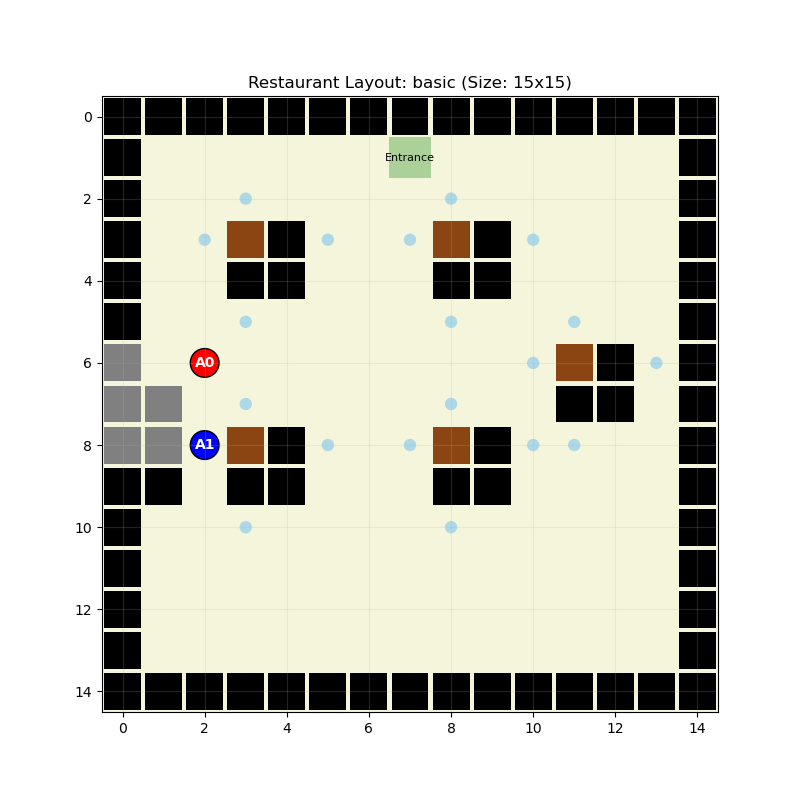
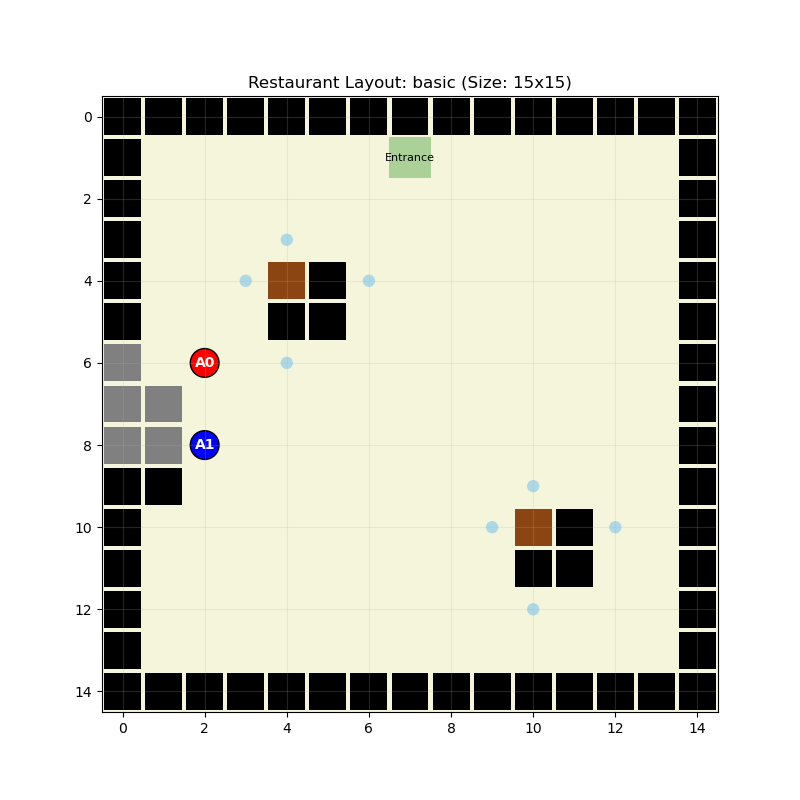
delivery_rewardの値を400.0にし、レイアウト生成機能を再設計。衝突判定に椅子の座標を追加し、関連する画像を更新。

diff --git a/envs/layout.py b/envs/layout.py
@@ -21,11 +21,13 @@ class LayoutBuilder:
             LayoutBuilder._add_table(obstacles, tables, seats, 3, 3, grid_size)
         
         elif layout_type == 'basic':
+            # テーブル数を 2つに削減
             obstacles = LayoutBuilder._add_walls(obstacles, grid_size)
             counter_pos = (7, 1)
             LayoutBuilder._add_counter(obstacles, 7, 1, length=3, horizontal=False)
             
-            for tx, ty in [(3, 3), (3, 8), (8, 3), (8, 8), (6, 11)]:
+            # 対角線上に配置し、広い移動スペースを確保
+            for tx, ty in [(4, 4), (10, 10)]:
                 LayoutBuilder._add_table(obstacles, tables, seats, tx, ty, grid_size)
             entrance_pos = (1, 7)
         
@@ -34,13 +36,24 @@ class LayoutBuilder:
             counter_pos = (7, 1)
             LayoutBuilder._add_counter(obstacles, 7, 1, length=5, horizontal=False)
             
-            for i in range(3):
+            # --- 再設計されたテーブル配置 ---
+            # 四隅に配置し、中央と外周に通路を確保
+            # (x, y) はテーブルの左上座標
+            table_positions = [
+                (2, 2),   # 左上
+                (2, 11),  # 右上
+                (11, 2),  # 左下
+                (11, 11), # 右下
+                (6, 7)    # 中央やや右（アイランド型）
+            ]
+            
+            for tx, ty in table_positions:
+                LayoutBuilder._add_table(obstacles, tables, seats, tx, ty, grid_size)
+            
+            # 追加の装飾的障害物（カウンター付近の仕切り）
+            for i in range(2):
                 obstacles.append((12, 5 + i))
             
-            for tx in [2, 6, 10]:
-                for ty in [2, 6, 10]:
-                    LayoutBuilder._add_table(obstacles, tables, seats, tx, ty, grid_size)
-            LayoutBuilder._add_table(obstacles, tables, seats, 4, 12, grid_size)
             entrance_pos = (1, 7)
         
         return obstacles, tables, seats, counter_pos, entrance_pos

diff --git a/envs/restaurant_env.py b/envs/restaurant_env.py
@@ -201,12 +201,13 @@ class RestaurantEnv(AECEnv):
                              if c.state in ['seated', 'ordered', 'served']]
         other_positions = [pos for a, pos in self.agent_positions.items() if a != agent]
         
-        if check_collision((new_x, new_y), self.obstacles, customer_positions, other_positions):
+        if check_collision((new_x, new_y), self.obstacles, 
+                          customer_positions, other_positions, self.seats):
             self.rewards[agent] = self.reward_params['collision']
             self.collision_count[agent] += 1
             collision = True
             new_x, new_y = x, y
-        
+            
         if not collision:
             self.agent_positions[agent] = (new_x, new_y)
         

diff --git a/envs/utils_env.py b/envs/utils_env.py
@@ -1,7 +1,10 @@
-def check_collision(new_pos, obstacles, customer_positions, other_positions):
-    """衝突判定"""
+def check_collision(new_pos, obstacles, customer_positions, other_positions, seat_positions=None):
+    """衝突判定：椅子（seat_positions）も判定対象に追加"""
     x, y = new_pos
+    # 既存の障害物、客の座標、他エージェントの座標に加え、椅子の座標をチェック
     if (x, y) in obstacles or (x, y) in customer_positions or (x, y) in other_positions:
+        return True
+    if seat_positions and (x, y) in seat_positions:
         return True
     return False
 

diff --git a/config.py b/config.py
@@ -4,7 +4,7 @@ from dataclasses import dataclass
 class Config:
     """環境とエージェント共通設定"""
     # TAR2の効果を確認するため、スパース報酬設定に変更（途中報酬を0にする）
-    delivery_reward: float = 200.0
+    delivery_reward: float = 400.0
     pickup_reward: float = 50.0       # 元に戻す
     collision_penalty: float = -10.0  # 元に戻す
     step_cost: float = -0.1           # 元に戻す
